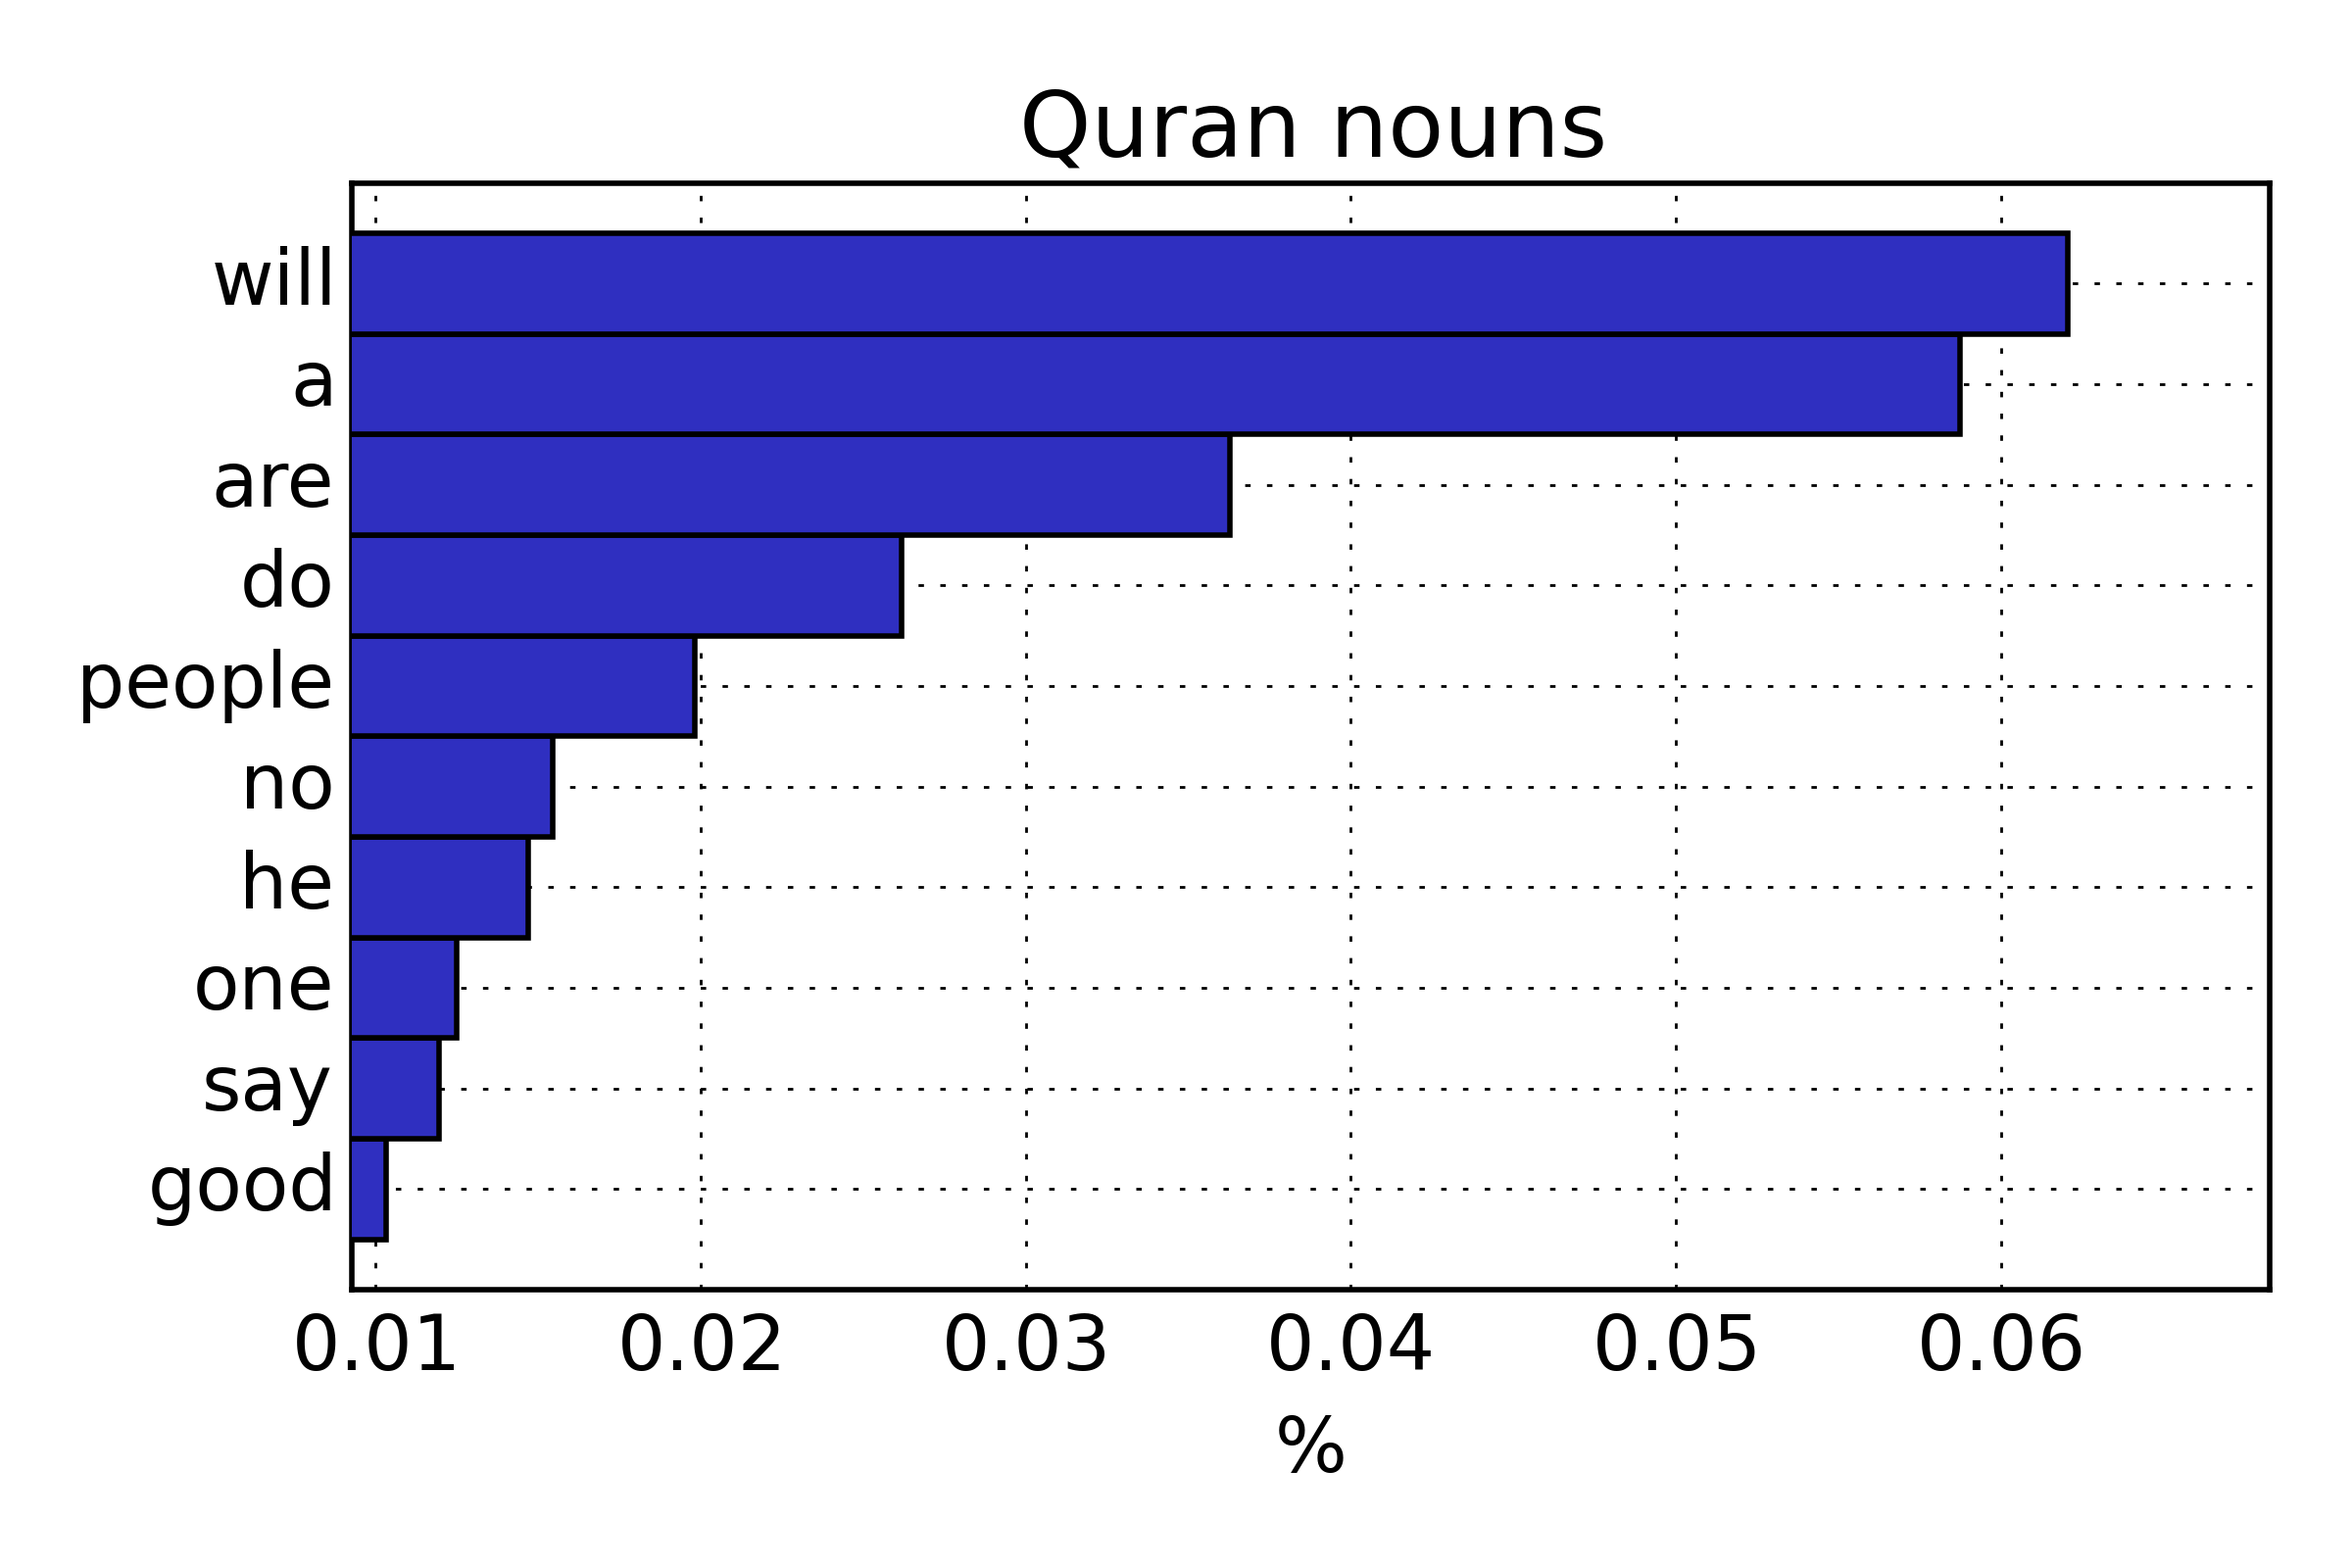
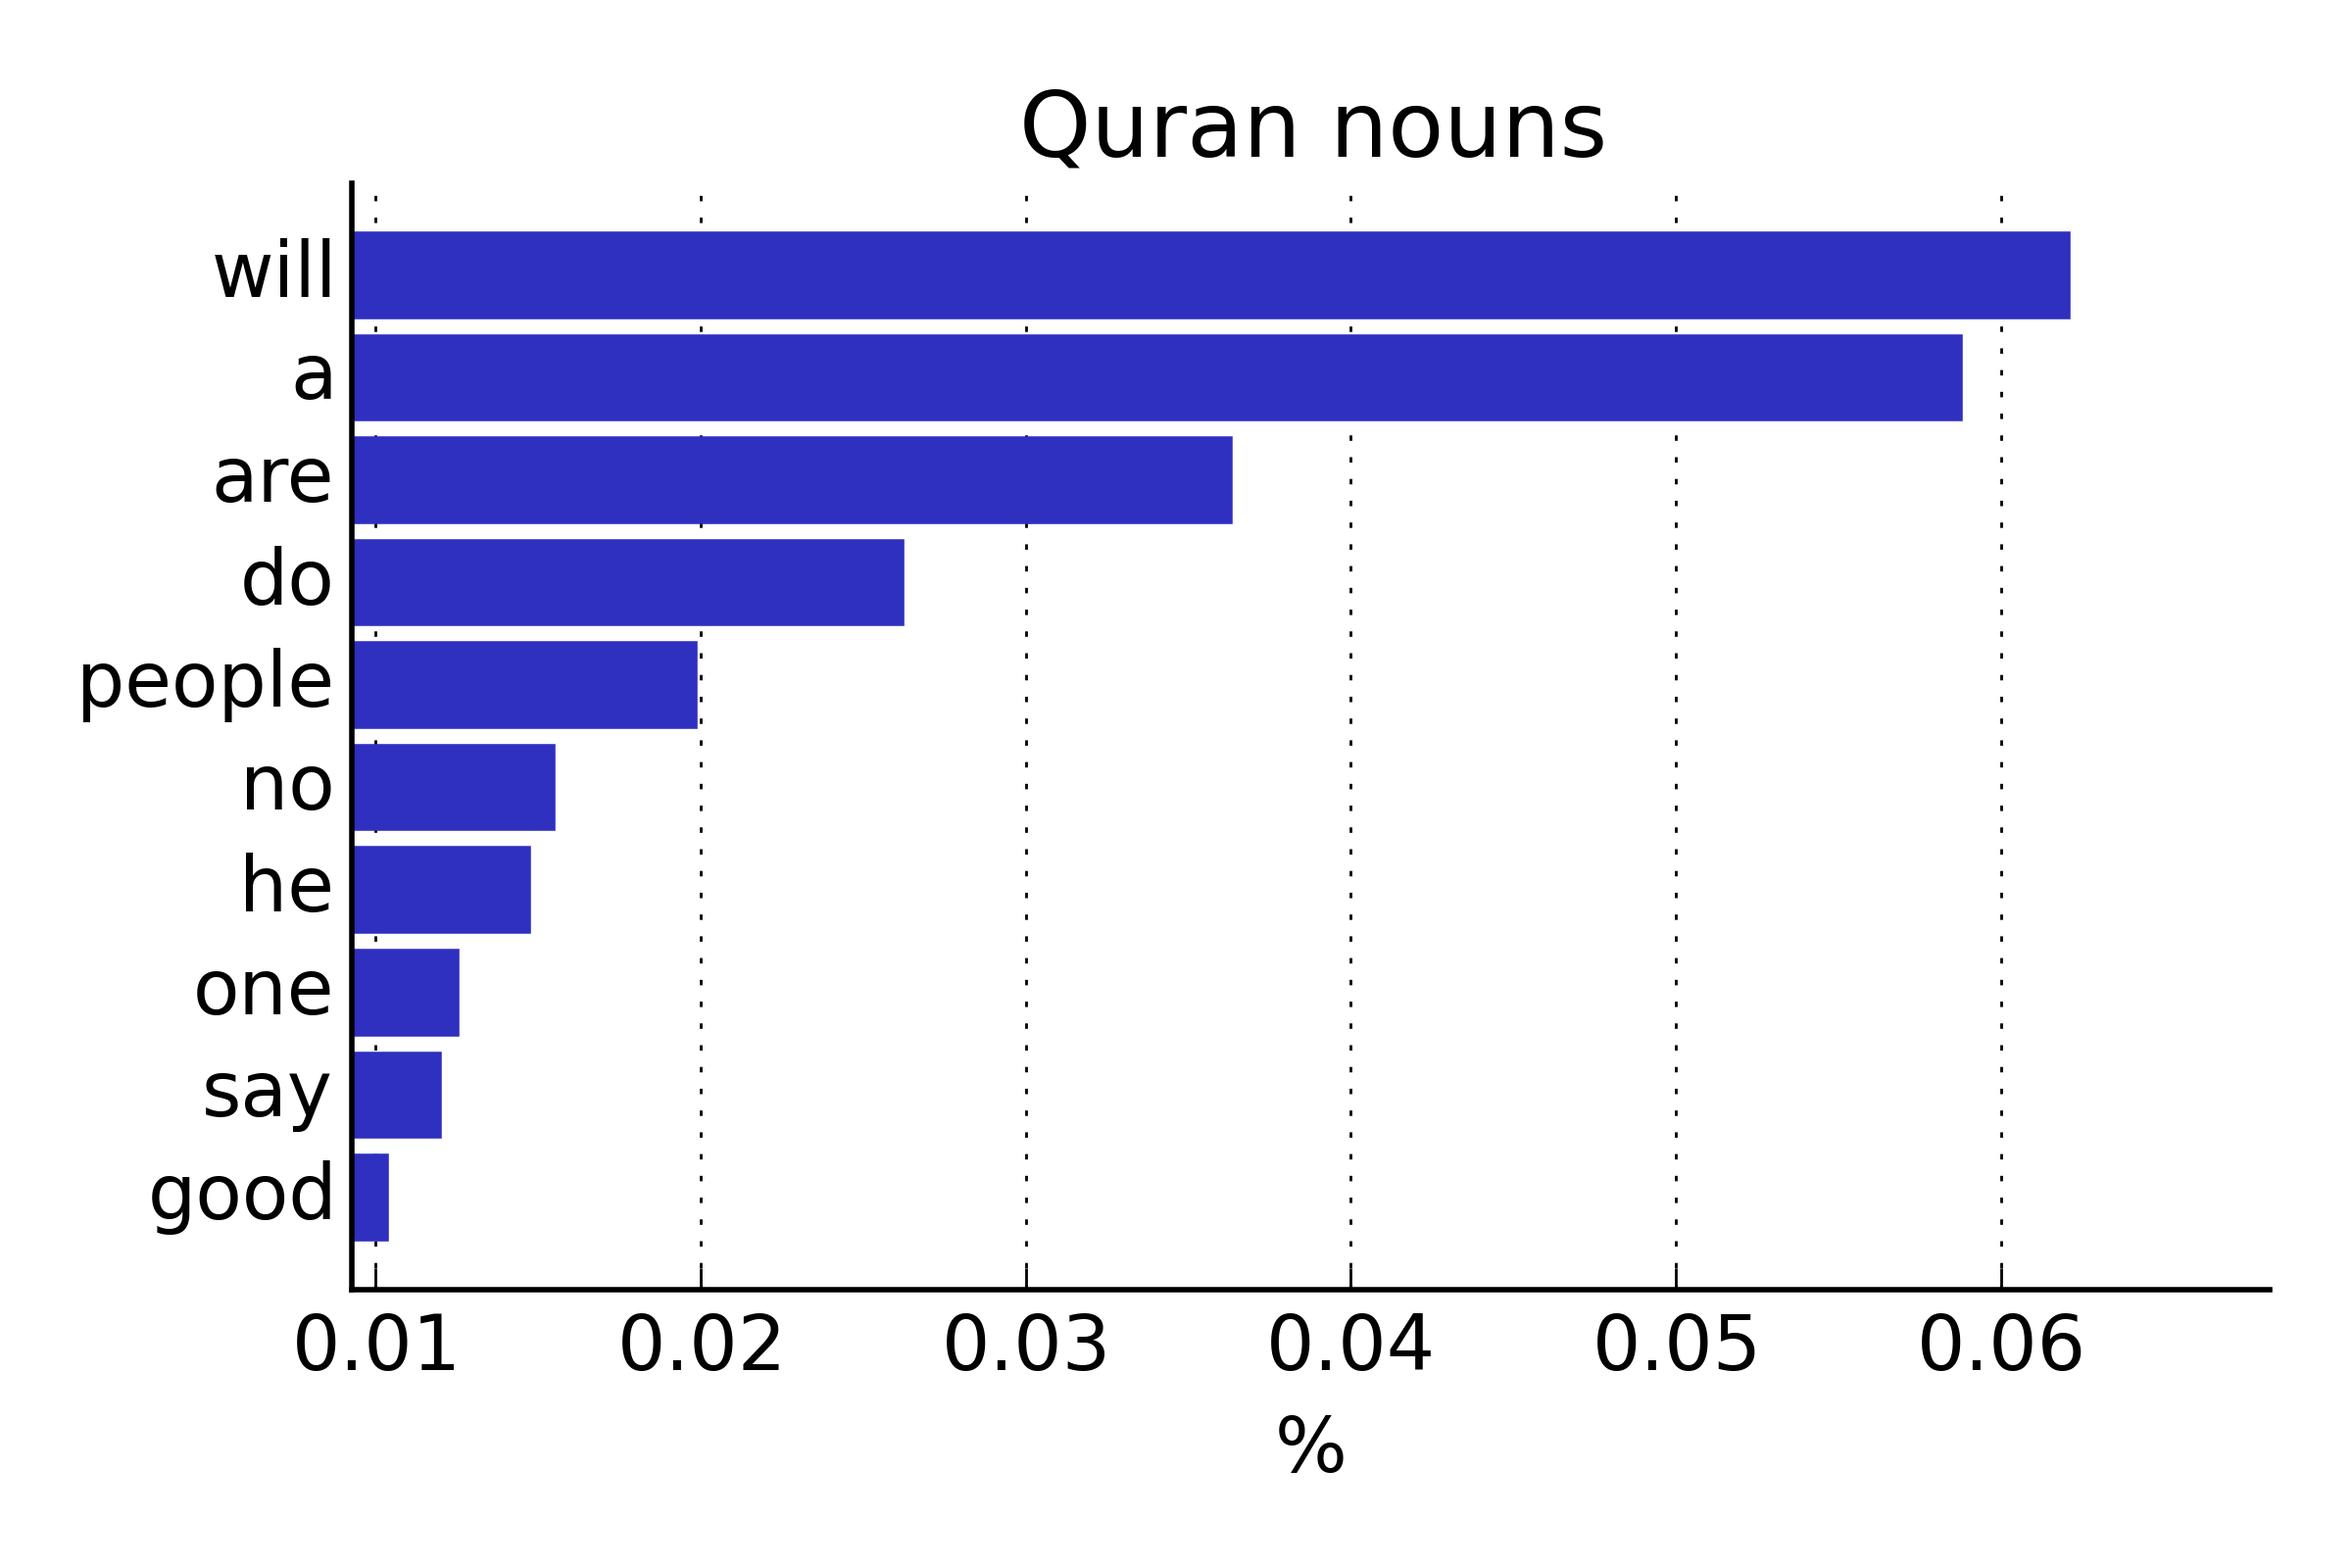
Prettier plots

diff --git a/Code/main.py b/Code/main.py
@@ -24,7 +24,25 @@ plt.rcParams['mathtext.default'] = 'regular'
 font = {'size': 14}
 plt.rc('font', **font)
 
+
+def simpleaxis(ax):
+    color = 'black'
+    for spine in ['top', 'right']:
+        ax.spines[spine].set_visible(False)
+    for spine in ['bottom', 'left']:
+        ax.spines[spine].set_edgecolor(color)
+    ax.tick_params(color=color, labelcolor=color)
+    ax.get_xaxis().tick_bottom()
+    ax.get_yaxis().tick_left()
+    ax.spines['left'].set_zorder(200)
+    ax.spines['bottom'].set_zorder(200)
+
+
 if __name__ == '__main__':
+
+    '''
+    Directories
+    '''
 
     data_dir = '../Data/'
     save_dir = '../Figures/'
@@ -35,6 +53,11 @@ if __name__ == '__main__':
 
     # How many to print
     top = 10
+
+
+    '''
+    Noun only
+    '''
 
     # Load the bible and quran
 
@@ -70,16 +93,18 @@ if __name__ == '__main__':
     PLOT
     '''
 
+    w_all = 0.8
+
     c_all = ['#197319', '#2F2FC0']
 
     for i in xrange(2):
         fig, ax = plt.subplots()
-        ax.grid()
-        ax.barh(np.arange(top)+0.5, top_words_count[i, :], 1, color=c_all[i], zorder = 100)
-        ax.set_ylim(0, top+1)
+        ax.xaxis.grid()
+        ax.barh(np.arange(top)+0.5, top_words_count[i, :], w_all, color=c_all[i], edgecolor=c_all[i], zorder = 100)
+        ax.set_ylim(0, top+w_all)
         ax.set_xlim(np.min(top_words_count[i, :])*0.9,
                     np.max(top_words_count[i, :])*1.1)
-        ax.set_yticks(np.arange(top)+1)
+        ax.set_yticks(np.arange(top)+1-(1-w_all)/2)
         ax.set_yticklabels(top_words_name[i, :])
 
         ax.xaxis.set_ticks_position('none')
@@ -95,6 +120,7 @@ if __name__ == '__main__':
             to_save = txts[i] + '_nouns'
 
         ax.set_title(to_title)
+        simpleaxis(ax)
         plt.tight_layout()
         plt.savefig(save_dir + to_save + '.png', dpi=400)
 
@@ -142,12 +168,12 @@ if __name__ == '__main__':
 
         for i in xrange(2):
             fig, ax = plt.subplots()
-            ax.grid()
-            ax.barh(np.arange(top)+0.5, top_words_count[i, :], 1, color=c_all[i], zorder = 100)
-            ax.set_ylim(0, top+1)
+            ax.xaxis.grid()
+            ax.barh(np.arange(top)+0.5, top_words_count[i, :], w_all, color=c_all[i], edgecolor=c_all[i], zorder = 100)
+            ax.set_ylim(0, top+w_all)
             ax.set_xlim(np.min(top_words_count[i, :])*0.9,
                         np.max(top_words_count[i, :])*1.1)
-            ax.set_yticks(np.arange(top)+1)
+            ax.set_yticks(np.arange(top)+1-(1-w_all)/2)
             ax.set_yticklabels(top_words_name[i, :])
 
             ax.xaxis.set_ticks_position('none')
@@ -163,6 +189,7 @@ if __name__ == '__main__':
                 to_save = txts[i] + plus
 
             ax.set_title(to_title)
+            simpleaxis(ax)
             plt.tight_layout()
             plt.savefig(save_dir + to_save + '.png', dpi=400)
 
@@ -247,12 +274,12 @@ if __name__ == '__main__':
 
     for k in xrange(len(txts)):
         fig, ax = plt.subplots()
-        ax.grid()
-        ax.barh(np.arange(top)+0.5, top_words_count[k, :], 1, color=c_all[k], zorder = 100)
-        ax.set_ylim(0, top+1)
+        ax.xaxis.grid()
+        ax.barh(np.arange(top)+0.5, top_words_count[k, :], w_all, color=c_all[k], edgecolor=c_all[k], zorder = 100)
+        ax.set_ylim(0, top+w_all)
         ax.set_xlim(np.min(top_words_count[k, :])*0.9,
                     np.max(top_words_count[k, :])*1.1)
-        ax.set_yticks(np.arange(top)+1)
+        ax.set_yticks(np.arange(top)+1-(1-w_all)/2)
         ax.set_yticklabels(top_words_name[k, :])
 
         ax.xaxis.set_ticks_position('none')
@@ -261,6 +288,7 @@ if __name__ == '__main__':
 
         ax.set_xlabel('%')
         ax.set_title(txts[k])
+        simpleaxis(ax)
         plt.tight_layout()
         plt.savefig(save_dir + txts[k] + '_bad_words.png', dpi=400)
 
@@ -271,11 +299,11 @@ if __name__ == '__main__':
     '''
     top = 2
     fig, ax = plt.subplots()
-    ax.grid()
-    ax.bar(np.arange(top)+0.5, k_d, 1, color=c_all, zorder=100)
-    ax.set_xlim(0, top+1)
+    ax.yaxis.grid()
+    ax.bar(np.arange(top)+0.5, k_d, w_all, color=c_all, edgecolor=c_all, zorder=100)
+    ax.set_xlim(0, top+w_all)
     ax.set_ylim(0, np.max(k_d)*1.1)
-    ax.set_xticks(np.arange(top)+1)
+    ax.set_xticks(np.arange(top)+1-(1-w_all)/2)
     ax.set_xticklabels(txts)
 
     ax.xaxis.set_ticks_position('none')
@@ -283,6 +311,7 @@ if __name__ == '__main__':
     ax.locator_params(axis='y', nbins=6)
 
     ax.set_title('K/D ratio')
+    simpleaxis(ax)
     plt.tight_layout()
     plt.savefig(save_dir + 'k_d_ratio.png', dpi=400)
     plt.show()
